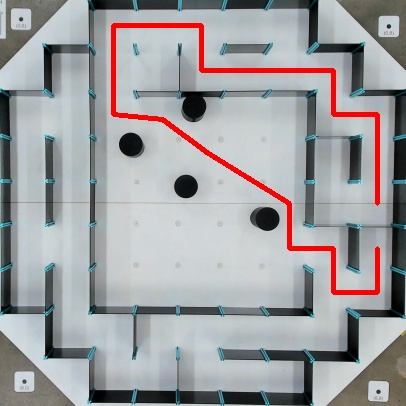
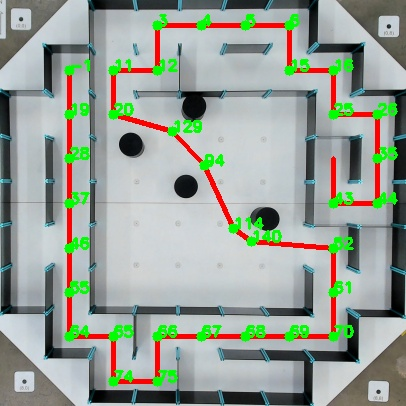
4.2 Arduino sequence generated

diff --git a/4.2 Continuous/continuous_path.py b/4.2 Continuous/continuous_path.py
@@ -27,12 +27,12 @@ graph_n = 9
 # y_start, y_end = 23, 350
 
 # Graph variables
-prm_total_nodes_count = 69
+prm_total_nodes_count = 75
 prm_connection_radius = 100
 
 # start and end cell (0,0) ~ (8,8)
-start = (4,8)
-end = (5,8)
+start = (1,1)
+end = (3,7)
 
 #======================== CLASSES ===========================#
 class Node:
@@ -104,6 +104,8 @@ def draw_blue_path(image, graph, path):
         (x1,y1) = graph.nodes[node].get_point()
         (x2,y2) = graph.nodes[next_node].get_point()
         cv2.line(image, (x1, y1), (x2, y2), (0, 0, 255), 3)
+        cv2.circle(image, (int(x1), int(y1)), 5, (0, 255, 0), -1)
+        cv2.putText(image, str(node), (x1, y1), cv2.FONT_HERSHEY_SIMPLEX, 0.5, (0, 255, 0), 2)
 
 def dijkstra(graph, start_id, end_id):    
     n = len(graph.nodes)
@@ -332,7 +334,7 @@ graph.add_node(-1, start_x, start_y) # start node
 for i, (x1, y1) in enumerate(out_node_pos):
     # Check if nodes is within radius of start node
     dist = math.sqrt((start_x - x1) ** 2  + (start_y - y1) ** 2)
-    if dist <= prm_connection_radius:
+    if dist <= 50:
         # Add edge if path is clear
         is_clear = path_clear(occ_map, x1, y1, start_x, start_y)
         if is_clear is True:
@@ -340,7 +342,7 @@ for i, (x1, y1) in enumerate(out_node_pos):
         
     # Check nearby nodes of end node
     dist = math.sqrt((goal_x - x1) ** 2  + (goal_y - y1) ** 2)
-    if dist > prm_connection_radius:
+    if dist > 50:
         continue
     
     is_clear = path_clear(occ_map, x1, y1, goal_x, goal_y)
@@ -371,36 +373,51 @@ output_path = script_dir / "path.jpg"
 cv2.imwrite(str(output_path), img)
 
 # TODO: redo sequence
-'''
-seq = []
-left = False
-right = False
 
-prev_h = diff_to_h(path[1] - path[0])  # 0 = north, 1 = east, 2 = south, 3 = west
-curr_h = 0 
-seq.append('fd')
-for i in range(1, len(path) - 1):
-    node = path[i]
-    next_node = path[i+1]
-    diff = next_node - node
-    curr_h = diff_to_h(diff)
-    if (curr_h - prev_h) == 0:
-        seq.append('fd')
-    elif (curr_h - prev_h) == 1 or (curr_h - prev_h) == -3:
-        seq.append('rfd')
-    elif (curr_h - prev_h) == -1 or (curr_h - prev_h) == 3:
-        seq.append('lfd')
-    prev_h = curr_h
+# Get points from path
+pts = []
+for nid in path:
+    pts.append(graph.nodes[nid].get_point())
 
-seq.append('s')
-sequence = "".join(seq)
-print(sequence)
+# print(pts)
+cmds = []
 
-script_dir = Path(__file__).parent
-task4_dir = script_dir.parent / "Task_4"
-out_path = task4_dir / "sequence.txt"
-with open(out_path, "w") as f:
-    f.write(sequence)
+# Face forward
+dx = pts[1][0] - pts[0][0]
+dy = pts[1][1] - pts[0][1]
+prev_yaw = math.atan2(-dy, dx)
+dist = math.hypot(dx, dy)
+cmds.append(("forward", dist))
 
-print(f"Sequence saved to {out_path.resolve()}")
-'''
+# --- remaining segments ---
+for i in range(1, len(pts)-1):
+    dx = pts[i+1][0] - pts[i][0]
+    dy = pts[i+1][1] - pts[i][1]
+    yaw = math.atan2(-dy, dx)
+    dtheta = yaw - prev_yaw
+    # print(f"yaw to next one is {yaw}, difference between prev yaw is {dtheta}")
+    deg = math.degrees(dtheta)
+    if (deg > 0.5):
+        cmds.append(("turn left", deg))
+    elif (deg < -180):
+        cmds.append(("turn left", abs(deg) - 180))
+    elif (deg < -0.5):
+        cmds.append(("turn right", abs(deg)))
+    
+    dist = math.hypot(dx, dy)
+    cmds.append(("forward", dist))
+
+    prev_yaw = yaw
+
+# print(cmds)
+
+tokens = []
+for op, val in cmds:
+    if op == "turn left":
+        tokens.append(f"T{-round(val)}")
+    elif op == "turn right":
+        tokens.append(f"T{round(val)}")
+    else:
+        tokens.append(f"F{round(val)}")
+seq = ";".join(tokens)
+print(seq)
